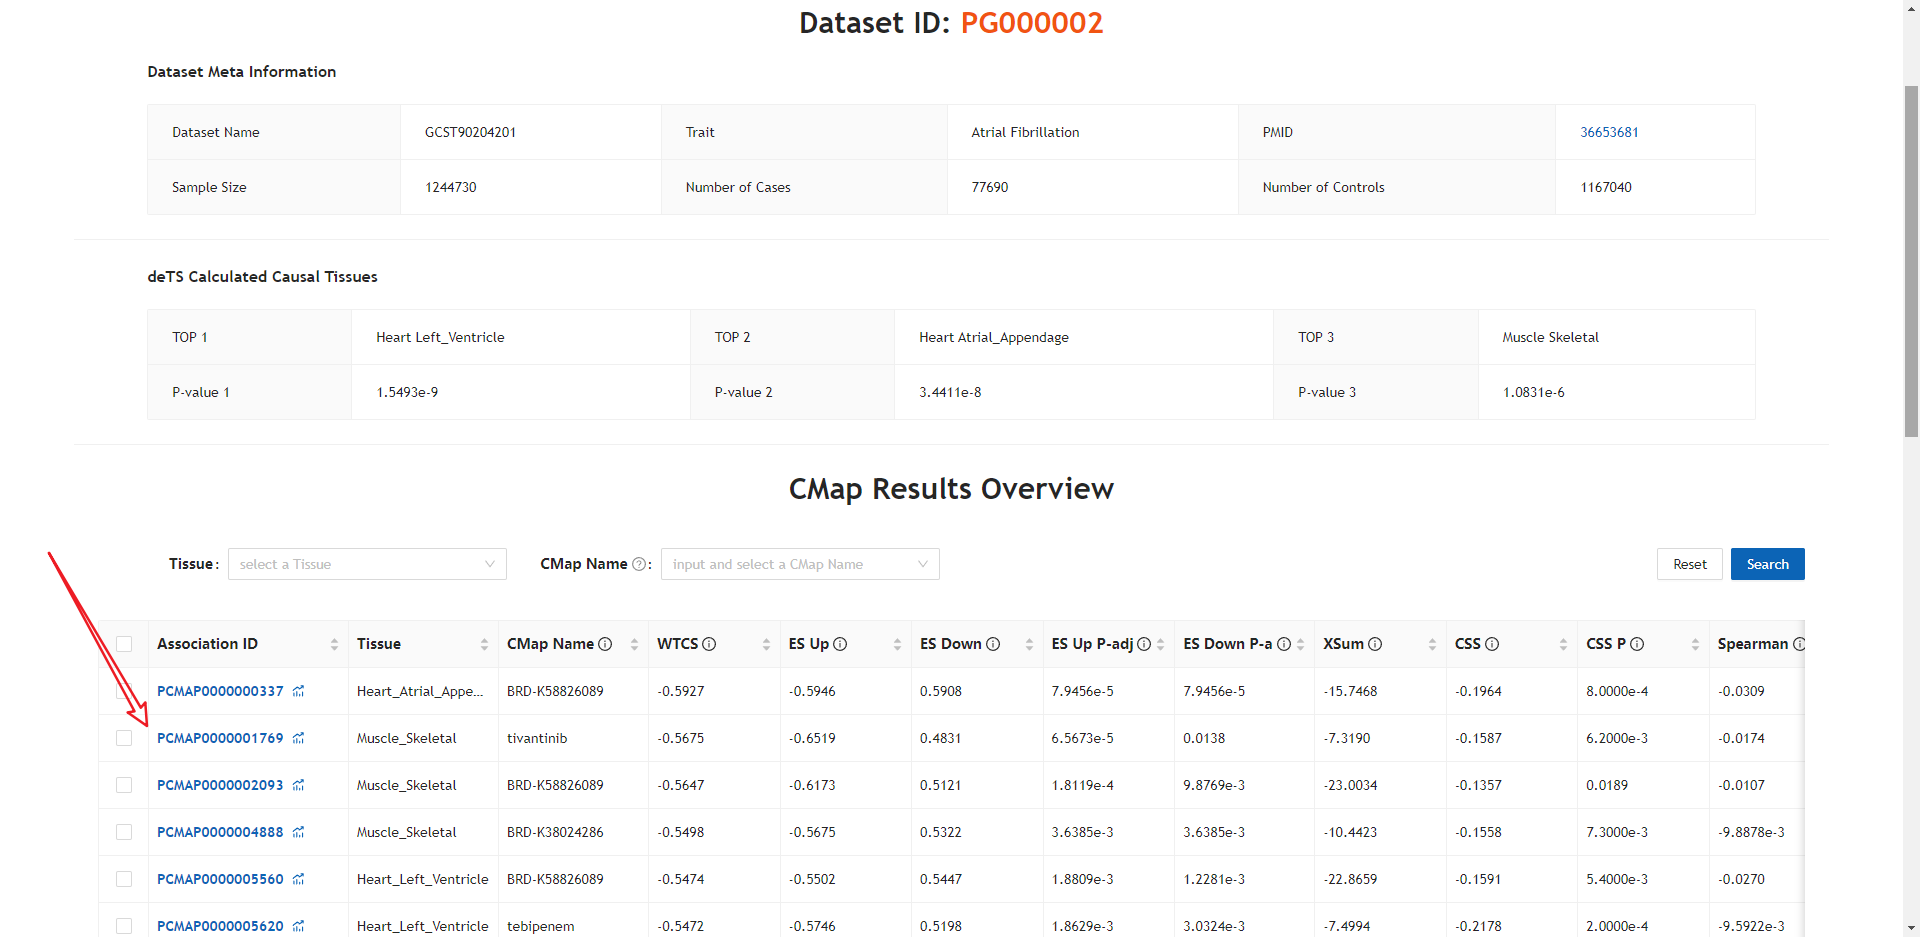
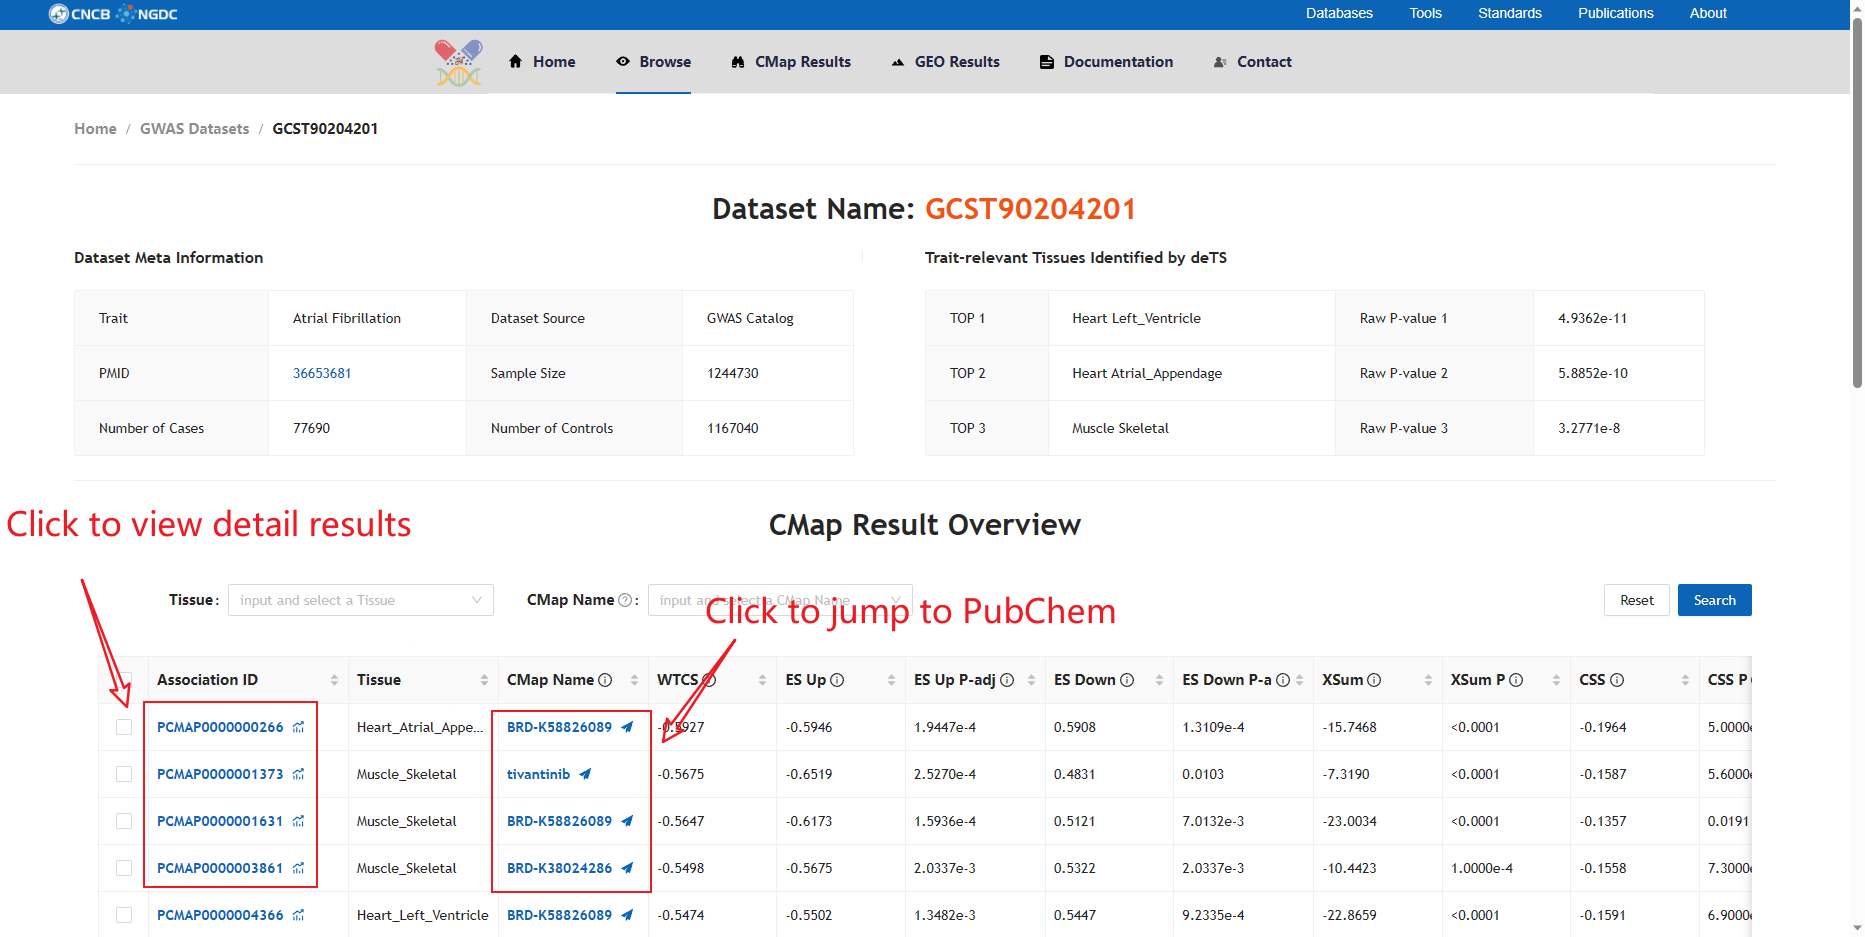
8-15

diff --git a/src/pages/Documentation/index.tsx b/src/pages/Documentation/index.tsx
@@ -244,6 +244,17 @@ export default function Page() {
                   [styles.hide]: !current.startsWith('#usage'),
                 })}
               />
+              <Link
+                href="#usage_detail"
+                title={
+                  <div>
+                    <p>6.6 Detail Page for Disease-Drug Pair</p>
+                  </div>
+                }
+                className={classnames({
+                  [styles.hide]: !current.startsWith('#usage'),
+                })}
+              />
             </Link>
           </Anchor>
         </Col>
@@ -271,7 +282,8 @@ export default function Page() {
           <div id={'overview'}>
             <Title level={1}>2. Overview</Title>
             <Paragraph>
-              PharmGWAS is a knowledgebase for genetically-informed drug repurposing for thousands of complex diseases. It utilizes proof-of-concept approaches to identify drug repurposing candidates by integrating GWAS-imputed transcriptome profiles and drug perturbation data. In the current release, we have collected 1,929 GWAS datasets, 720,216 small compound signatures from the Expanded CMap LINCS Resource 2020 (hereafter referred to as CMap), and 4,269 perturbation signatures from GEO. We implemented six connectivity methods to infer candidate drugs for each complex disease based on their GReX imputed from GWAS results. These methods resulted in 811,457 disease-drug pairs from the CMap and 8,695 from the GEO resources. PharmGWAS thus provides a valuable reference resource for the discovery of new drugs, design of combinatory treatments, and identification of drug resistance and drug side effects.
+              PharmGWAS aims to translate GWAS signals into clinical practice. Currently, PharmGWAS contains 1,929 GWAS datasets curated from GWAS Catalog, UKBB, and several large consortiums. Moreover, 720,216 compound-perturbed gene expression signatures were collected from CMap2.0 and an additional 4,269 perturbed signatures were collected from GEO. We implemented our standard pipeline to infer candidate disease-drug pairs for each GWAS dataset. The outline of PharmGWAS is illustrated in Figure 1. Currently, PharmGWAS deposits a total of 811,457 genetically-informed disease-drug pairs derived from CMap signatures and 8,695 pairs from GEO signatures. To the best of our knowledge, PharmGWAS is the first systematic and comprehensive database to identify drug repurposing candidates for nearly all available disease traits.
+              {/*PharmGWAS is a knowledgebase for genetically-informed drug repurposing for thousands of complex diseases. It utilizes proof-of-concept approaches to identify drug repurposing candidates by integrating GWAS-imputed transcriptome profiles and drug perturbation data. In the current release, we have collected 1,929 GWAS datasets, 720,216 small compound signatures from the Expanded CMap LINCS Resource 2020 (hereafter referred to as CMap), and 4,269 perturbation signatures from GEO. We implemented six connectivity methods to infer candidate drugs for each complex disease based on their GReX imputed from GWAS results. These methods resulted in 811,457 disease-drug pairs from the CMap and 8,695 from the GEO resources. PharmGWAS thus provides a valuable reference resource for the discovery of new drugs, design of combinatory treatments, and identification of drug resistance and drug side effects.*/}
             </Paragraph>
             <Row justify={'center'}>
                 <Image src={overview} preview={false} width={'75%'} />
@@ -281,15 +293,18 @@ export default function Page() {
           <div id={'collection'}>
             <Title level={1}>3. Data Collection</Title>
             <Paragraph>
-              All GWAS datasets used in PharmGWAS were collected from three major sources, which are the GWAS Catalog, UK BioBank (UKBB) and other major consortiums (see below).
+              All GWAS datasets used in PharmGWAS were collected from three major sources, which are the GWAS Catalog, UK BioBank (UKBB) and some large consortiums dedicated to diverse diseases (see below).
             </Paragraph>
             <Table dataSource={dataSource} columns={columns} bordered={true} pagination={false} />
+            <p/>
             <Paragraph>
-              The drug-induced gene expression profiles were retrieved from two sources: the Expanded CMap LINCS Resource 2020 (https://clue.io/data/CMap2020#LINCS2020) and GEO RNA-Seq Signatures downloaded from SigCom LINCS (https://maayanlab.cloud/sigcom-lincs/#/Download).
+              The drug-induced gene expression profiles were retrieved from two sources: the Expanded CMap LINCS Resource 2020 (hereafter referred to as CMap2.0) and the SigCom LINCS resource. For CMap2.0, we downloaded the level 5 data of small molecule compounds along with the metadata including information of compounds, dosage, time, genes, and cell lines. SigCom LINCS is a webserver that provides service to process and analyze over a million gene expression signatures. We downloaded the level 5 data from the SigCom LINCS resource (file name: Automatic Human GEO RNA-seq Signatures; access date: May 29, 2023), which included 4269 signatures that could also be used for connectivity analyses.
+              {/*The drug-induced gene expression profiles were retrieved from two sources: the Expanded CMap LINCS Resource 2020 (https://clue.io/data/CMap2020#LINCS2020) and GEO RNA-Seq Signatures downloaded from SigCom LINCS (https://maayanlab.cloud/sigcom-lincs/#/Download).*/}
             </Paragraph>
           </div>
           <div id={'analysis'}>
             <Title level={1}>4. Data Analysis</Title>
+            <Paragraph>We constructed a standard pipeline to infer genetically-informed drugs. First, because gene expression data could be quite tissue-specific, we defined disease-associated genes based on the GWAS data and conducted tissue-specific enrichment analysis (TSEA) to identify disease-relevant tissues for TWAS analyses. Second, we conducted TWAS in the predicted tissues and obtained the imputed GReX. Third, we conducted connectivity analyses to infer drug candidates by integrating GWAS-informed signature (GReX) and drug-induced signatures. Finally, we defined candidate disease-drug pairs by combining the results of the six connectivity methods.</Paragraph>
             <Paragraph>The analysis pipeline of GWAS-based drug repurposing contains five major steps. </Paragraph>
             <Paragraph>(1)	To prioritize disease-associated genes by using MAGMA, a gene analysis tool with GWAS summary statistics as input.  </Paragraph>
             <Paragraph>(2)	To infer disease-relevant tissues by the Tissue-Specific Enrichment Analysis (TSEA) using deTS and the disease-associated genes from step (1).  </Paragraph>
@@ -387,7 +402,7 @@ export default function Page() {
                   6.1 Home Page
                 </Title>
                 <Paragraph>
-                  The home page provides an overview search function for users to query the database using trait keywords for GAWS Datasets, CMap Name for CMap Signatures, GEO keyword for GEO signatures. Moreover, the home page provides summarizes the main resources in the database, including the number of datasets, signatures, connectivity methods and results disease-drug pairs.
+                  The search function available in the homepage supports keyword-based quick queries for multiple forms of items, such as names of diseases, CMap signatures, or GEO signatures. Moreover, the home page provides summarizes the main resources in the database, including the number of datasets, signatures, connectivity methods and results disease-drug pairs.
                 </Paragraph>
                 <Image src={usage_1} preview={false}/>
               </div>
@@ -396,11 +411,11 @@ export default function Page() {
                   6.2 Browse - GWAS Datasets
                 </Title>
                 <Paragraph>
-                  This page contains 1,929 GWAS datasets that can be easily accessed using the advanced search and filter options. By clicking the Dataset ID, you can browse the detailed information about the datasets and its corresponding results for drug repurposing.
+                  This page contains 1,929 GWAS datasets that can be easily accessed using the advanced search and filter options. By clicking the Dataset ID, you can browse the detailed information about the dataset and its corresponding results for drug repurposing.
                 </Paragraph>
                 <Image src={usage_2} preview={false}/>
                 <Paragraph>
-                  The detailed page for single dataset including four major components: Dataset Meta Information, deTS Calculated Causal Tissues, drug candidates derived from CMap signatures (CMap Results Overview) and GEO signatures (GEO Results Overview). The advanced search and filter function were also provided in this page. By clicking the Association ID, you can link to the Explore Page of the corresponding result item.
+                  The detailed page for individual dataset including four major components: Dataset Meta Information, deTS Calculated Causal Tissues, drug candidates derived from CMap signatures (CMap Results Overview) and GEO signatures (GEO Results Overview). The advanced search and filter function were also provided in this page. By clicking the Association ID, you can link to the Detail Page of the corresponding result item. By clicking on the "CMap Name" column, users can access the details of the corresponding compound in PubChem, such as chemical and physical properties, clinical trials, consolidated references, patents, and so on.
                 </Paragraph>
                 <Image src={usage_3} preview={false}/>
               </div>
@@ -409,7 +424,7 @@ export default function Page() {
                   6.3 Browse - CMap Signatures
                 </Title>
                 <Paragraph>
-                  The CMap Signarues page contains 720,216 small molecule compound CMap signatures that can be easily accessed using the advanced search and filter options. By clicking the Signature ID, you can browse the detailed information about the signature and its corresponding results with all GWAS datasets for drug repurposing.
+                  The CMap Signarues page contains 720,216 small molecule compound CMap signatures that can be easily accessed using the advanced search and filter options. By clicking the Signature ID, you can browse the detailed information about the signature and its corresponding results with all GWAS datasets for drug repurposing. By clicking on the "CMap Name" column, users can access the details of the corresponding compound in PubChem, such as chemical and physical properties, clinical trials, consolidated references, patents, and so on.
                 </Paragraph>
                 <Image src={usage_4} preview={false}/>
                 <Paragraph>
@@ -435,11 +450,18 @@ export default function Page() {
                   6.5 CMap and GEO Results
                 </Title>
                 <Paragraph>
-                  The CMap Results page and GEO Results page contains the overall disease-drug pairs derived from corresponding kind signatures. You can easily explore these results by advance search and filter function. By clicking the Association ID, you will led to the detailed page for each association.
+                  The modules for “CMap Results” and “GEO Results” provide an opportunity to directly search for disease-drug pairs across datasets and signatures. An advanced search function has also been provided. Users can jump to the detail page of disease-drug pairs by clicking on the “Association ID” in the CMap Results and GEO Results pages.
+                  {/*The CMap Results page and GEO Results page contains the overall disease-drug pairs derived from corresponding kind signatures. You can easily explore these results by advance search and filter function. By clicking the Association ID, you will led to the detailed page for each association.*/}
                 </Paragraph>
                 <Image src={usage_8} preview={false}/>
+              </div>
+              <div id={'usage_detail'}>
+                <Title level={2}>
+                  6.6 Detail Page for Disease-Drug Pair
+                </Title>
                 <Paragraph>
-                  The page for single association contains the comprehensive details about the corresponding drug-disease pair, including four major components: Meta Information of the disease and drug, the overview of the six connectivity methods of evaluation, the GSEA results for the S-PrediXcan signatures in the pre-ranked gene list of CMap/GEO signature, the reverse intersection analysis using the extreme genes of the two kinds of signatures (Disease: S-PrediXcan and Drug: CMap or GEO), and the bar plot about the detail gene list of the extreme genes with its corresponding Z-scores.
+                  The “detail page” about individual disease-drug pairs contains five sections. First, meta-information about the corresponding disease and drug is shown at the top of the page. Second, we use a radargram to provide an overview of the results from six connectivity methods. The larger the area enclosed by the results of the six methods, the more reliable the drug candidate is. Third, to assess whether the disease-upregulated genes appear toward the bottom of drug-induced profiles and disease-downregulated genes appear toward the top of drug-induced profiles, the GSEA plots of disease upregulated and downregulated genes in the pre-ranked list of drug signature are provided. Next, the reverse intersection analysis of disease-upregulated genes with drug-downregulated genes are illustrated in Venn diagrams, and similarly for disease-downregulated genes with drug-upregulated genes. Finally, the corresponding Z scores of upregulated and downregulated genes in disease and drug signatures are displayed in the histograms.
+                  {/*The page for single association contains the comprehensive details about the corresponding drug-disease pair, including four major components: Meta Information of the disease and drug, the overview of the six connectivity methods of evaluation, the GSEA results for the S-PrediXcan signatures in the pre-ranked gene list of CMap/GEO signature, the reverse intersection analysis using the extreme genes of the two kinds of signatures (Disease: S-PrediXcan and Drug: CMap or GEO), and the bar plot about the detail gene list of the extreme genes with its corresponding Z-scores.*/}
                 </Paragraph>
                 <Image src={usage_9} preview={false}/>
                 <Image src={usage_10} preview={false}/>
